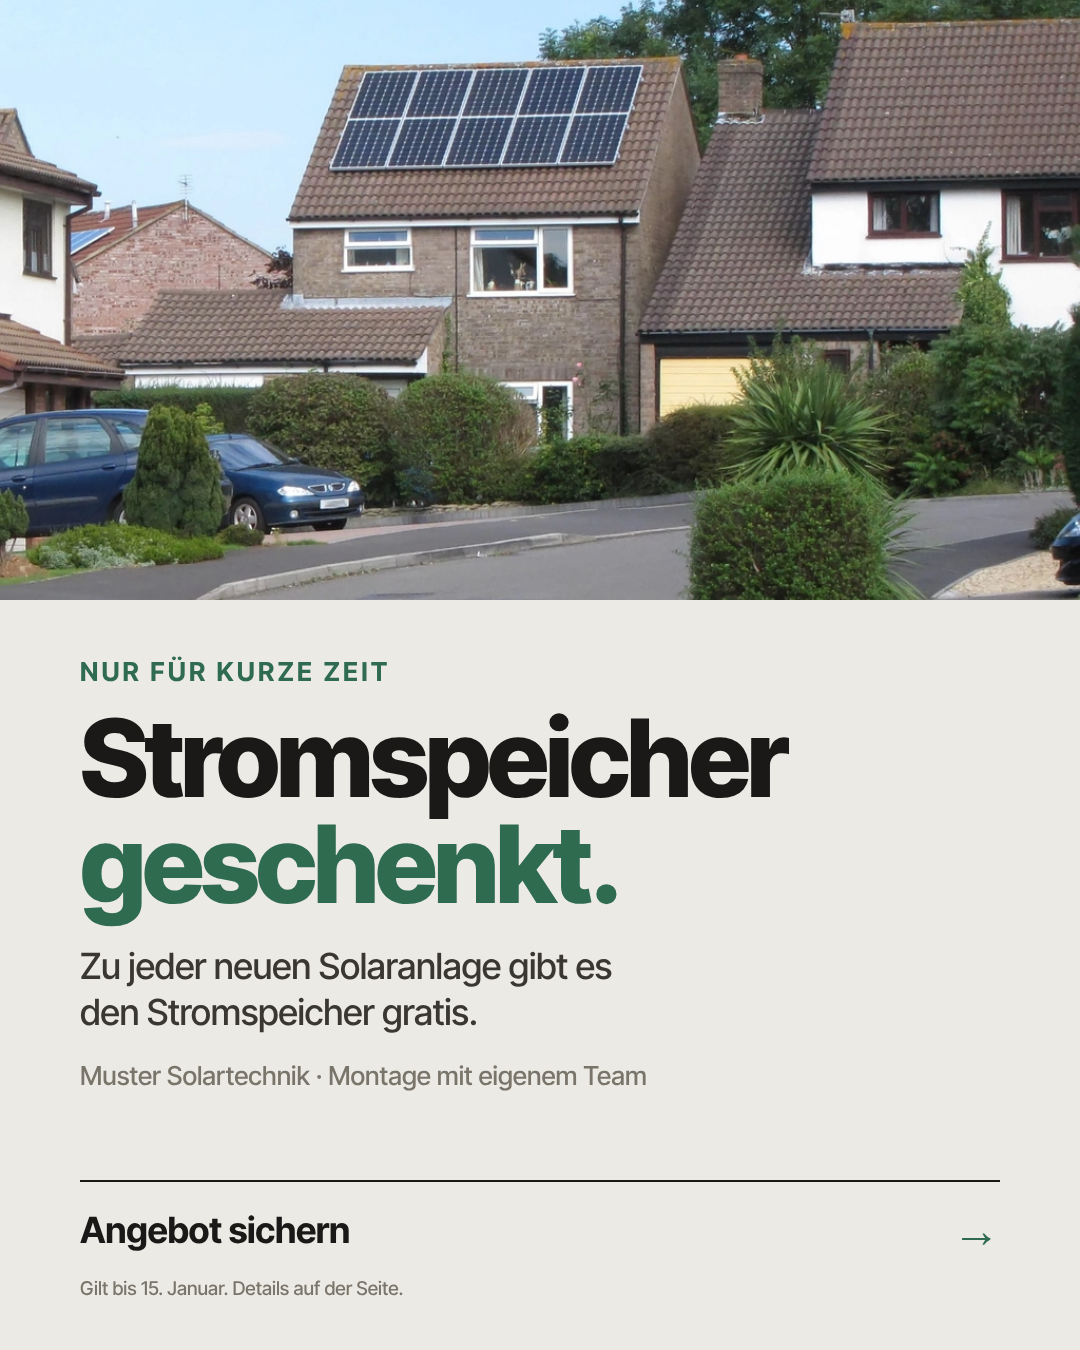
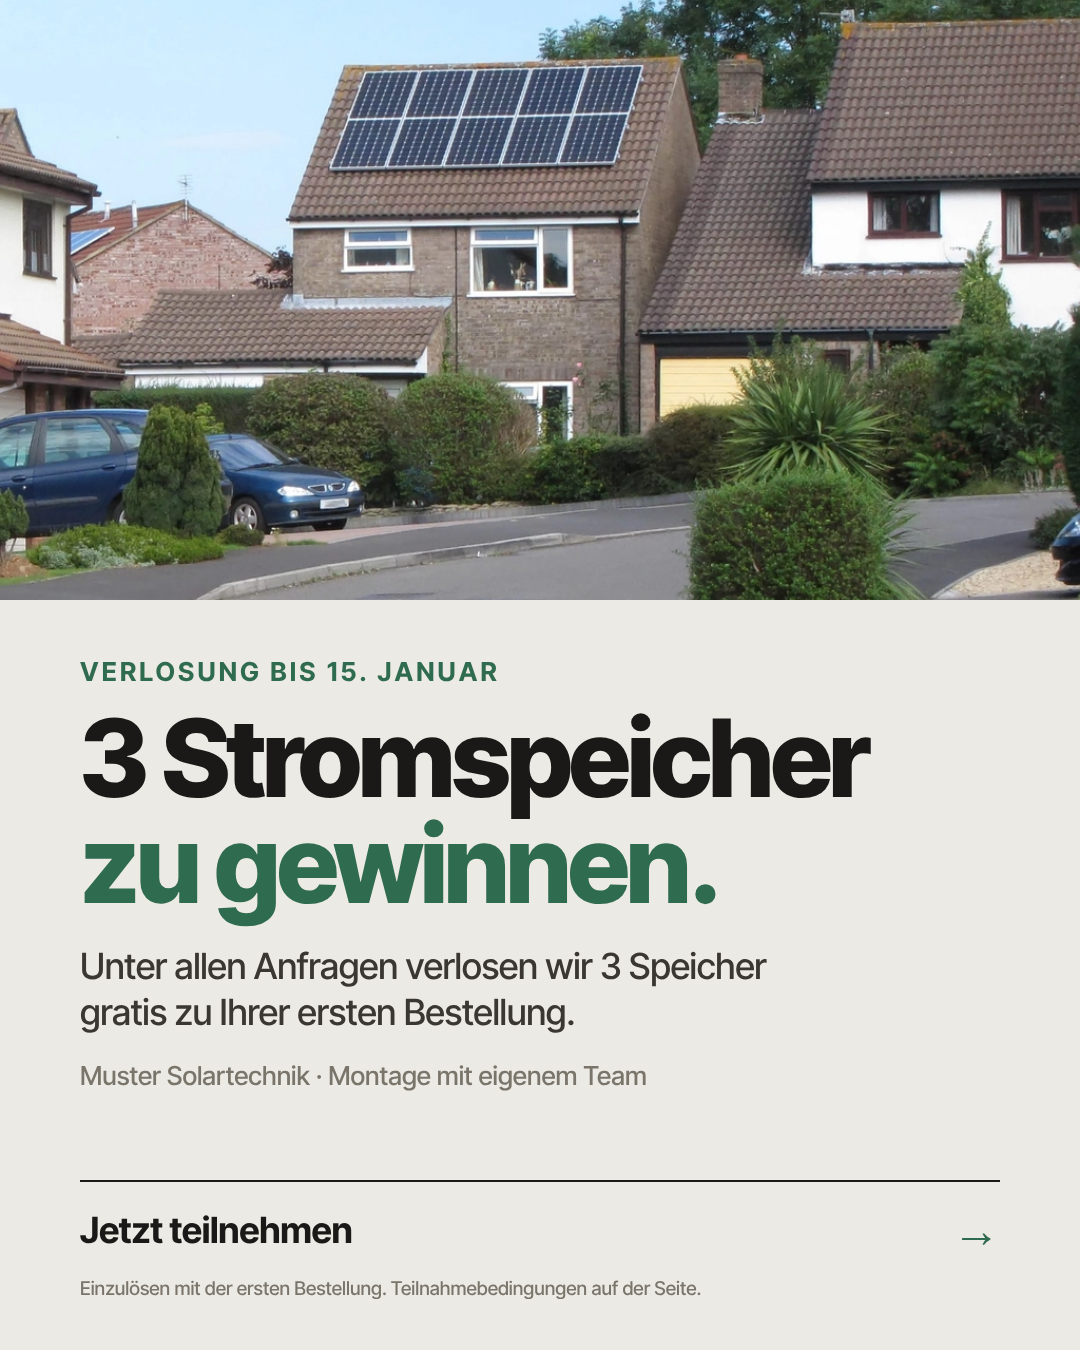
Photovoltaik: Anker als Verlosungen statt für alle
Gewinnspiel: ein kostenloses Modul. 20 % Rabatt und Stromspeicher werden
an je 3 Gewinner verlost, einzulösen mit der ersten Bestellung. Anzeigen,
Begleittexte, Vorschau, Modul und CLAUDE.md angepasst.

Claude-Session: https://claude.ai/code/session_01RzXcZUJgy2AmndL2zSRuUB

Changed region(s): [[0.0611, 0.4667, 0.825, 0.7778], [0.0611, 0.9022, 0.6417, 0.9644]]

diff --git a/nischen/photovoltaik/kunden/muster-solartechnik/anzeigen/vorschau.html b/nischen/photovoltaik/kunden/muster-solartechnik/anzeigen/vorschau.html
@@ -70,30 +70,30 @@
   <div class="lbl">Anzeige 1 — Gewinnspiel<small>Senkt die Hürde am stärksten. Braucht Teilnahmebedingungen auf der Landingpage.</small></div>
   <div class="ad">
     <div class="top"><div class="pic"></div><div class="who"><b>Muster Solartechnik</b><span>Gesponsert · 🌐</span></div></div>
-    <div class="txt">☀ Gewinnspiel für Hausbesitzer in Ihrer Region: Unter allen Anfragen bis 15. Januar verlosen wir ein Solarmodul für Ihr Dach. Dazu bekommen Sie eine kostenlose Dach-Analyse, ganz unverbindlich.
+    <div class="txt">☀ Gewinnspiel für Hausbesitzer in Ihrer Region: Unter allen Anfragen bis 15. Januar verlosen wir ein kostenloses Modul. Dazu bekommen Sie eine kostenlose Dach-Analyse, ganz unverbindlich.
 👉 Jetzt teilnehmen.</div>
     <img src="creatives/1-gewinnspiel.png" alt="Anzeige 1">
     <div class="card"><div><span class="u">ihre-seite.netlify.app</span><b>Gewinnen Sie ein Solarmodul</b><small>Teilnahme bis 15. Januar.</small></div><span class="btn">Registrieren</span></div>
     <div class="bar"><span>👍 Gefällt mir</span><span>💬 Kommentieren</span><span>↗ Teilen</span></div>
   </div>
 
-  <div class="lbl">Anzeige 2 — 20 % Rabatt<small>Klarer Geldvorteil. Rabatt nur auf einen echten Angebotspreis.</small></div>
+  <div class="lbl">Anzeige 2 — Verlosung 20 % Rabatt<small>3 Gewinner, einzulösen bei der ersten Bestellung.</small></div>
   <div class="ad">
     <div class="top"><div class="pic"></div><div class="who"><b>Muster Solartechnik</b><span>Gesponsert · 🌐</span></div></div>
-    <div class="txt">Nur bis 15. Januar: 20 % auf Ihre Solaranlage. Muster Solartechnik prüft Ihr Dach kostenlos, plant die Anlage für Ihren Verbrauch und montiert mit eigenem Team.
-👉 Jetzt Rabatt sichern.</div>
+    <div class="txt">Verlosung bis 15. Januar: Unter allen Anfragen verlosen wir 3 × 20 % Rabatt auf die erste Bestellung Ihrer Solaranlage. Muster Solartechnik prüft Ihr Dach kostenlos und montiert mit eigenem Team.
+👉 Jetzt teilnehmen.</div>
     <img src="creatives/2-rabatt.png" alt="Anzeige 2">
-    <div class="card"><div><span class="u">ihre-seite.netlify.app</span><b>20 % auf Ihre Solaranlage</b><small>Aktion bis 15. Januar.</small></div><span class="btn">Angebot erhalten</span></div>
+    <div class="card"><div><span class="u">ihre-seite.netlify.app</span><b>20 % Rabatt gewinnen</b><small>3 Gewinner, Verlosung bis 15. Januar.</small></div><span class="btn">Registrieren</span></div>
     <div class="bar"><span>👍 Gefällt mir</span><span>💬 Kommentieren</span><span>↗ Teilen</span></div>
   </div>
 
-  <div class="lbl">Anzeige 3 — Speicher geschenkt<small>Hoher wahrgenommener Wert. Speichergröße vorher mit dem Betrieb festlegen.</small></div>
+  <div class="lbl">Anzeige 3 — Verlosung Stromspeicher<small>3 Gewinner, Speicher gratis zur ersten Bestellung.</small></div>
   <div class="ad">
     <div class="top"><div class="pic"></div><div class="who"><b>Muster Solartechnik</b><span>Gesponsert · 🌐</span></div></div>
-    <div class="txt">Stromspeicher geschenkt: Zu jeder neuen Solaranlage von Muster Solartechnik gibt es den Speicher gratis dazu. Gilt bis 15. Januar. Die Dach-Analyse vor Ort ist kostenlos.
-👉 Jetzt Angebot sichern.</div>
+    <div class="txt">Wir verlosen 3 Stromspeicher! Unter allen Anfragen bis 15. Januar ziehen wir 3 Gewinner, die den Speicher gratis zu ihrer ersten Bestellung bekommen. Die Dach-Analyse vor Ort ist kostenlos.
+👉 Jetzt teilnehmen.</div>
     <img src="creatives/3-speicher.png" alt="Anzeige 3">
-    <div class="card"><div><span class="u">ihre-seite.netlify.app</span><b>Stromspeicher geschenkt</b><small>Zu jeder neuen Solaranlage.</small></div><span class="btn">Angebot erhalten</span></div>
+    <div class="card"><div><span class="u">ihre-seite.netlify.app</span><b>3 Stromspeicher zu gewinnen</b><small>Gratis zur ersten Bestellung.</small></div><span class="btn">Registrieren</span></div>
     <div class="bar"><span>👍 Gefällt mir</span><span>💬 Kommentieren</span><span>↗ Teilen</span></div>
   </div>
 

diff --git a/nischen/photovoltaik/kunden/muster-solartechnik/anzeigen/anzeigen.html b/nischen/photovoltaik/kunden/muster-solartechnik/anzeigen/anzeigen.html
@@ -1,6 +1,6 @@
 <!--
   META-ANZEIGEN (Standard) · PV · Probekunde Muster Solartechnik (FIKTIV)
-  Drei Gratis-Anker: Gewinnspiel Solarmodul · 20 % Rabatt · Speicher geschenkt.
+  Drei Verlosungen: kostenloses Solarmodul · 3 × 20 % Rabatt · 3 Stromspeicher (jeweils zur ersten Bestellung).
   Aufbau: Solardach oben, Angebot groß, ein erklärender Satz, Faktenzeile, Aufforderung.
   Feed 4:5 (1080x1350). Rendern: node ../../../tools/creatives-rendern.js anzeigen.html
   Name und Aktionsdatum: unten in KUNDE eintragen. Kein Ort in den Anzeigen (Kunden in ganz Deutschland), dann neu rendern.
@@ -55,37 +55,37 @@
   <div class="band">
     <p class="kicker">Gewinnspiel</p>
     <h1>Gewinnen Sie ein <em>Solarmodul.</em></h1>
-    <p class="sub">Unter allen Anfragen bis <span data-k="datum"></span> verlosen wir ein Modul für Ihr Dach.</p>
+    <p class="sub">Unter allen Anfragen bis <span data-k="datum"></span> verlosen wir ein kostenloses Modul.</p>
     <p class="facts"><span data-k="betrieb"></span> · Fachbetrieb in Ihrer Region</p>
   </div>
   <div class="cta">Jetzt teilnehmen <span>→</span></div>
   <p class="fine">Teilnahmebedingungen auf der Seite.</p>
 </div>
 
-<!-- 2 · 20 % RABATT -->
+<!-- 2 · VERLOSUNG 20 % -->
 <div class="ad b" data-creative="2-rabatt">
   <div class="photo" style="background-image:url(fotos/dach-klinker.jpg);background-size:auto 760px;background-position:20% 0%;"></div>
   <div class="band">
-    <p class="kicker">Aktion bis <span data-k="datum"></span></p>
-    <h1><em>20 %</em> auf Ihre Solaranlage.</h1>
-    <p class="sub">Für alle Anfragen bis zum <span data-k="datum"></span>.<br>Die Dach-Analyse ist kostenlos.</p>
+    <p class="kicker">Verlosung bis <span data-k="datum"></span></p>
+    <h1><em>20 % Rabatt</em> gewinnen.</h1>
+    <p class="sub">Wir verlosen 3 × 20 % Rabatt auf die<br>erste Bestellung Ihrer Solaranlage.</p>
     <p class="facts"><span data-k="betrieb"></span> · Festpreis vorab · eigene Montageteams</p>
   </div>
-  <div class="cta">Rabatt sichern <span>→</span></div>
-  <p class="fine">Rabatt auf den Angebotspreis. Details auf der Seite.</p>
+  <div class="cta">Jetzt teilnehmen <span>→</span></div>
+  <p class="fine">Rabatt auf den Angebotspreis der ersten Bestellung. Teilnahmebedingungen auf der Seite.</p>
 </div>
 
-<!-- 3 · SPEICHER GESCHENKT -->
+<!-- 3 · VERLOSUNG STROMSPEICHER -->
 <div class="ad c" data-creative="3-speicher">
   <div class="photo" style="background-image:url(fotos/strasse.jpg);background-position:42% 18%;"></div>
   <div class="band">
-    <p class="kicker">Nur für kurze Zeit</p>
-    <h1>Stromspeicher <em>geschenkt.</em></h1>
-    <p class="sub">Zu jeder neuen Solaranlage gibt es<br>den Stromspeicher gratis.</p>
+    <p class="kicker">Verlosung bis <span data-k="datum"></span></p>
+    <h1>3 Stromspeicher <em>zu gewinnen.</em></h1>
+    <p class="sub">Unter allen Anfragen verlosen wir 3 Speicher<br>gratis zu Ihrer ersten Bestellung.</p>
     <p class="facts"><span data-k="betrieb"></span> · Montage mit eigenem Team</p>
   </div>
-  <div class="cta">Angebot sichern <span>→</span></div>
-  <p class="fine">Gilt bis <span data-k="datum"></span>. Details auf der Seite.</p>
+  <div class="cta">Jetzt teilnehmen <span>→</span></div>
+  <p class="fine">Einzulösen mit der ersten Bestellung. Teilnahmebedingungen auf der Seite.</p>
 </div>
 
 <script>

diff --git a/nischen/photovoltaik/README.md b/nischen/photovoltaik/README.md
@@ -47,7 +47,7 @@ ob und wie es nach draußen geht. „Intern“ heißt: bleibt bei dir, geht nie 
 | 13 | **Danke-Seite** | [▶ Seite ansehen](https://raw.githack.com/raphaelgeil652-lab/business/main/nischen/photovoltaik/kunden/muster-solartechnik/landingpage/danke.html) | `[Telefon]` füllen. Sonst fertig | Geht mit Schritt 12 automatisch online |
 | 14 | **Meta-Pixel** | [▶ Events Manager](https://business.facebook.com/events_manager2) | Im Konto des Kunden: Datenquelle → Pixel. Die Pixel-ID in `index.html` **und** `danke.html` bei `PIXEL_ID` eintragen, Ordner neu hochladen | Pixel lädt nur, wenn Besucher „Einverstanden“ klicken. Prüfen: Events Manager → Testereignisse |
 | 15 | **Anzeigen ansehen** ⭐ — die 3 Anzeigen mit den Gratis-Ankern, wie sie im Feed und bei Google aussehen | [▶ Vorschau öffnen](https://raw.githack.com/raphaelgeil652-lab/business/main/nischen/photovoltaik/kunden/muster-solartechnik/anzeigen/vorschau.html) | Mit dem Kollegen durchgehen. Gut zum Zeigen im Verkaufsgespräch: „So sähe das für Sie aus“ | Nicht hochladen, nur zum Ansehen und Zeigen |
-| 16 | **Anzeigen-Bilder** (fertig zum Hochladen) | [Gewinnspiel](https://raw.githack.com/raphaelgeil652-lab/business/main/nischen/photovoltaik/kunden/muster-solartechnik/anzeigen/creatives/1-gewinnspiel.png) · [20 % Rabatt](https://raw.githack.com/raphaelgeil652-lab/business/main/nischen/photovoltaik/kunden/muster-solartechnik/anzeigen/creatives/2-rabatt.png) · [Speicher geschenkt](https://raw.githack.com/raphaelgeil652-lab/business/main/nischen/photovoltaik/kunden/muster-solartechnik/anzeigen/creatives/3-speicher.png) | Link öffnen → Bild speichern. **Für einen neuen Kunden:** in [`anzeigen.html`](kunden/muster-solartechnik/anzeigen/anzeigen.html) unten Name, Ort und Aktionsdatum ändern, eigene Fotos in `fotos/` legen, dann Claude sagen „Anzeigen neu rendern“ (oder `node nischen/photovoltaik/tools/creatives-rendern.js <pfad>/anzeigen.html`) | Im Werbeanzeigenmanager je ein Bild pro Anzeige, Texte aus `kampagnen.md`. Angebote vorher vom Kunden freigeben lassen |
+| 16 | **Anzeigen-Bilder** (fertig zum Hochladen) | [Gewinnspiel](https://raw.githack.com/raphaelgeil652-lab/business/main/nischen/photovoltaik/kunden/muster-solartechnik/anzeigen/creatives/1-gewinnspiel.png) · [Verlosung 20 %](https://raw.githack.com/raphaelgeil652-lab/business/main/nischen/photovoltaik/kunden/muster-solartechnik/anzeigen/creatives/2-rabatt.png) · [Verlosung Speicher](https://raw.githack.com/raphaelgeil652-lab/business/main/nischen/photovoltaik/kunden/muster-solartechnik/anzeigen/creatives/3-speicher.png) | Link öffnen → Bild speichern. **Für einen neuen Kunden:** in [`anzeigen.html`](kunden/muster-solartechnik/anzeigen/anzeigen.html) unten Name, Ort und Aktionsdatum ändern, eigene Fotos in `fotos/` legen, dann Claude sagen „Anzeigen neu rendern“ (oder `node nischen/photovoltaik/tools/creatives-rendern.js <pfad>/anzeigen.html`) | Im Werbeanzeigenmanager je ein Bild pro Anzeige, Texte aus `kampagnen.md`. Angebote vorher vom Kunden freigeben lassen |
 | 17 | **Echte Fotos und Videos** (sobald vom Kunden da) | [▶ Videoschnitt-Anleitung](../../videoschnitt/README.md) | Rohvideo in `videoschnitt/projekt/public/` legen → `npm run schneiden -- public/roh.mp4`. Skript für das Inhaber-Video steht in `kampagnen.md` | Als **zusätzliche** Anzeigen in dieselbe Anzeigengruppe. Videos kommen **nicht** ins Repo |
 | 18 | **Meta-Kampagne** | [▶ Werbeanzeigenmanager](https://adsmanager.facebook.com) · [Einstellungen](kunden/muster-solartechnik/kampagnen.md) | Werbekonto des Kunden wählen → Erstellen → alles 1:1 aus `kampagnen.md` (Ziel Leads, 23 €/Tag, Einzugsgebiet des Kunden, 3 Anzeigen mit Bildern und Texten aus Schritt 16). Anleitung: [`meta-anzeige-einrichten.md`](../../anleitungen/meta-anzeige-einrichten.md) | **Pausiert anlegen.** Erst nach Schritt 20 auf „Aktiv“ |
 | 19 | **Google-Kampagne** | [▶ Google Ads](https://ads.google.com) · [Einstellungen](kunden/muster-solartechnik/kampagnen.md) | Im Verwaltungskonto das Konto des Kunden öffnen → Neue Kampagne → Suche → Keywords, Ausschlüsse, 15 Überschriften und 4 Beschreibungen aus `kampagnen.md` kopieren. Conversion = Aufruf der Danke-Seite | **Pausiert anlegen**, aktiv nach Schritt 20 |

diff --git a/nischen/photovoltaik/kunden/muster-solartechnik/kampagnen.md b/nischen/photovoltaik/kunden/muster-solartechnik/kampagnen.md
@@ -37,28 +37,31 @@ Ziel der Seite: `[Landingpage-URL]` (nach dem Hosten eintragen).
 
 Bilder: [`anzeigen/creatives/`](anzeigen/creatives/) · So sieht es aus: [`anzeigen/vorschau.html`](anzeigen/vorschau.html).
 Name, Ort und Aktionsdatum stehen unten in [`anzeigen/anzeigen.html`](anzeigen/anzeigen.html) (`KUNDE`).
-Die Landingpage muss zum Anker passen: Wer auf „Speicher geschenkt“ klickt, liest oben genau das.
+Die Landingpage muss zum Anker passen: Wer auf „3 Stromspeicher zu gewinnen“ klickt, liest oben genau das.
 
 **1 — Gewinnspiel Solarmodul** · Bild: `1-gewinnspiel.png` · Button: Registrieren
-- Primärtext: ☀ Gewinnspiel für Hausbesitzer in Ihrer Region: Unter allen Anfragen bis 15. Januar verlosen wir ein Solarmodul für Ihr Dach. Dazu bekommen Sie eine kostenlose Dach-Analyse, ganz unverbindlich.
+- Primärtext: ☀ Gewinnspiel für Hausbesitzer in Ihrer Region: Unter allen Anfragen bis 15. Januar verlosen wir ein kostenloses Modul. Dazu bekommen Sie eine kostenlose Dach-Analyse, ganz unverbindlich.
   👉 Jetzt teilnehmen.
 - Headline: Gewinnen Sie ein Solarmodul
 - Beschreibung: Teilnahme bis 15. Januar.
-- Pflicht: Teilnahmebedingungen auf der Landingpage, Hinweis, dass Meta nicht beteiligt ist.
 
-**2 — 20 % Rabatt** · Bild: `2-rabatt.png` · Button: Angebot erhalten
-- Primärtext: Nur bis 15. Januar: 20 % auf Ihre Solaranlage. Muster Solartechnik prüft Ihr Dach kostenlos, plant die Anlage für Ihren Verbrauch und montiert mit eigenem Team.
-  👉 Jetzt Rabatt sichern.
-- Headline: 20 % auf Ihre Solaranlage
-- Beschreibung: Aktion bis 15. Januar.
-- Pflicht: Rabatt nur auf einen echten Angebotspreis, nie auf einen vorher erhöhten.
+**2 — Verlosung 20 % Rabatt** · Bild: `2-rabatt.png` · Button: Registrieren
+- Primärtext: Verlosung bis 15. Januar: Unter allen Anfragen verlosen wir 3 × 20 % Rabatt auf die erste Bestellung Ihrer Solaranlage. Muster Solartechnik prüft Ihr Dach kostenlos und montiert mit eigenem Team.
+  👉 Jetzt teilnehmen.
+- Headline: 20 % Rabatt gewinnen
+- Beschreibung: 3 Gewinner, Verlosung bis 15. Januar.
 
-**3 — Speicher geschenkt** · Bild: `3-speicher.png` · Button: Angebot erhalten
-- Primärtext: Stromspeicher geschenkt: Zu jeder neuen Solaranlage von Muster Solartechnik gibt es den Speicher gratis dazu. Gilt bis 15. Januar. Die Dach-Analyse vor Ort ist kostenlos.
-  👉 Jetzt Angebot sichern.
-- Headline: Stromspeicher geschenkt
-- Beschreibung: Zu jeder neuen Solaranlage.
-- Pflicht: Speichergröße vorher mit dem Betrieb festlegen und auf der Landingpage nennen.
+**3 — Verlosung Stromspeicher** · Bild: `3-speicher.png` · Button: Registrieren
+- Primärtext: Wir verlosen 3 Stromspeicher! Unter allen Anfragen bis 15. Januar ziehen wir 3 Gewinner, die den Speicher gratis zu ihrer ersten Bestellung bekommen. Die Dach-Analyse vor Ort ist kostenlos.
+  👉 Jetzt teilnehmen.
+- Headline: 3 Stromspeicher zu gewinnen
+- Beschreibung: Gratis zur ersten Bestellung.
+
+**Pflicht für alle drei Verlosungen:** Teilnahmebedingungen auf der Landingpage (Zeitraum, wer
+teilnehmen darf, wie und wann gezogen wird, wie Gewinner benachrichtigt werden) und der Hinweis,
+dass Meta nicht beteiligt ist. Bei Rabatt und Speicher muss **klar dastehen, dass der Gewinn nur
+mit einer Bestellung eingelöst wird** — das ist erlaubt, aber nur, wenn es vor der Teilnahme
+deutlich gesagt wird. Rabatt nur auf einen echten Angebotspreis; Speichergröße festlegen.
 
 Alle drei Angebote (Kosten, Datum, Bedingungen) muss der Kunde schriftlich freigeben (§7 der Vereinbarung).
 

diff --git a/nischen/photovoltaik/modul-photovoltaik.md b/nischen/photovoltaik/modul-photovoltaik.md
@@ -40,11 +40,15 @@ Vorlage: `kunden/muster-solartechnik/anzeigen/anzeigen.html`, Recherche dazu: `.
 
 ## Gratis-Anker mit Aktionscharakter (für die Anzeigen)
 
-| Anker | Kicker / Headline | Was der Betrieb vorher festlegen muss |
-|---|---|---|
-| Gewinnspiel | „Gewinnen Sie ein Solarmodul.“ | Teilnahmebedingungen, Zeitraum, Ziehung, Hinweis „Meta ist nicht beteiligt“ |
-| 20 % Rabatt | „20 % auf Ihre Solaranlage.“ | Rabatt auf echten Angebotspreis, Enddatum; trägt er rund 20 % Marge-Verzicht? |
-| Speicher geschenkt | „Stromspeicher geschenkt.“ | Welche Speichergröße, Enddatum; Wert ca. 3.000–9.000 € |
+| Anker | Headline | Mechanik | Was der Betrieb vorher festlegen muss |
+|---|---|---|---|
+| Gewinnspiel Modul | „Gewinnen Sie ein Solarmodul.“ | Unter allen Anfragen wird **ein kostenloses Modul** verlost | Teilnahmebedingungen, Zeitraum, Ziehung |
+| Verlosung 20 % | „20 % Rabatt gewinnen.“ | **3 Gewinner** bekommen 20 % auf ihre **erste Bestellung** | Rabatt auf echten Angebotspreis, Enddatum |
+| Verlosung Speicher | „3 Stromspeicher zu gewinnen.“ | **3 Gewinner** bekommen den Speicher gratis zur **ersten Bestellung** | Speichergröße, Enddatum |
+
+Alle drei sind Verlosungen, keine Rabatte für alle. Pflicht: Teilnahmebedingungen auf der
+Landingpage, Hinweis „Meta ist nicht beteiligt“, und bei Rabatt/Speicher vor der Teilnahme klar
+sagen, dass der Gewinn nur mit einer Bestellung eingelöst wird.
 
 Die kostenlose Dach-Analyse bleibt der Einstieg auf der Landingpage, die Aktion ist der Haken in der Anzeige.
 

diff --git a/CLAUDE.md b/CLAUDE.md
@@ -94,8 +94,9 @@ für Kfz und die Webseiten-Kunden. Anzeigen-Bilder
 kommen aus `anzeigen/anzeigen.html` (Name/Ort/Aktionsdatum unten in `KUNDE` tauschen) über
 `nischen/photovoltaik/tools/creatives-rendern.js`. **Anzeigen-Standard (vom Nutzer festgelegt):**
 Solardach-Foto oben, darunter Angebot groß, ein Satz, Faktenzeile, CTA-Zeile, eine Schrift, keine
-Verläufe/Icons/Glow. Anker in den Anzeigen: Gewinnspiel Solarmodul · 20 % Rabatt · Speicher
-geschenkt. Alle künftigen PV-Anzeigen lehnen sich daran an (Details im Modul). Die PV-Landingpage lädt keine Google Fonts und setzt das Pixel erst nach Zustimmung; die
+Verläufe/Icons/Glow. Anker in den Anzeigen sind **drei Verlosungen**: ein kostenloses
+Solarmodul · 3 × 20 % Rabatt auf die erste Bestellung · 3 Stromspeicher gratis zur ersten
+Bestellung (nicht für alle). Alle künftigen PV-Anzeigen lehnen sich daran an (Details im Modul). Die PV-Landingpage lädt keine Google Fonts und setzt das Pixel erst nach Zustimmung; die
 Kfz-Vorlage tut beides noch nicht und sollte nachgezogen werden.
 
 **Warum gewechselt:** Vor-Ort-Besuche bei Küchenstudios im Juli 2026 zeigten verhaltene Resonanz.
